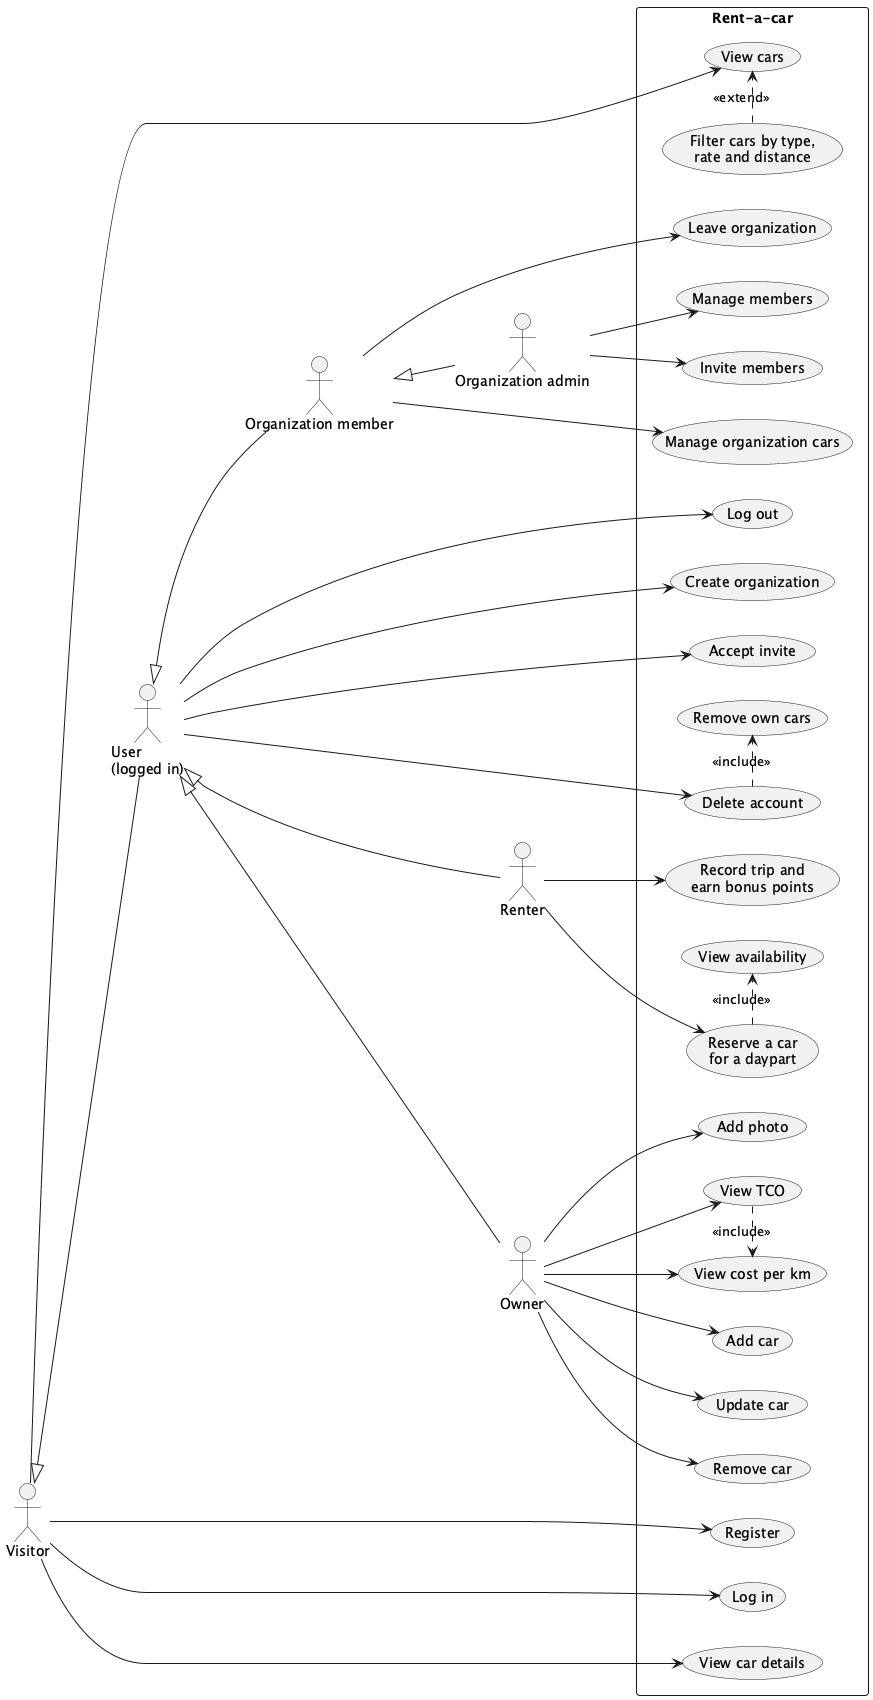
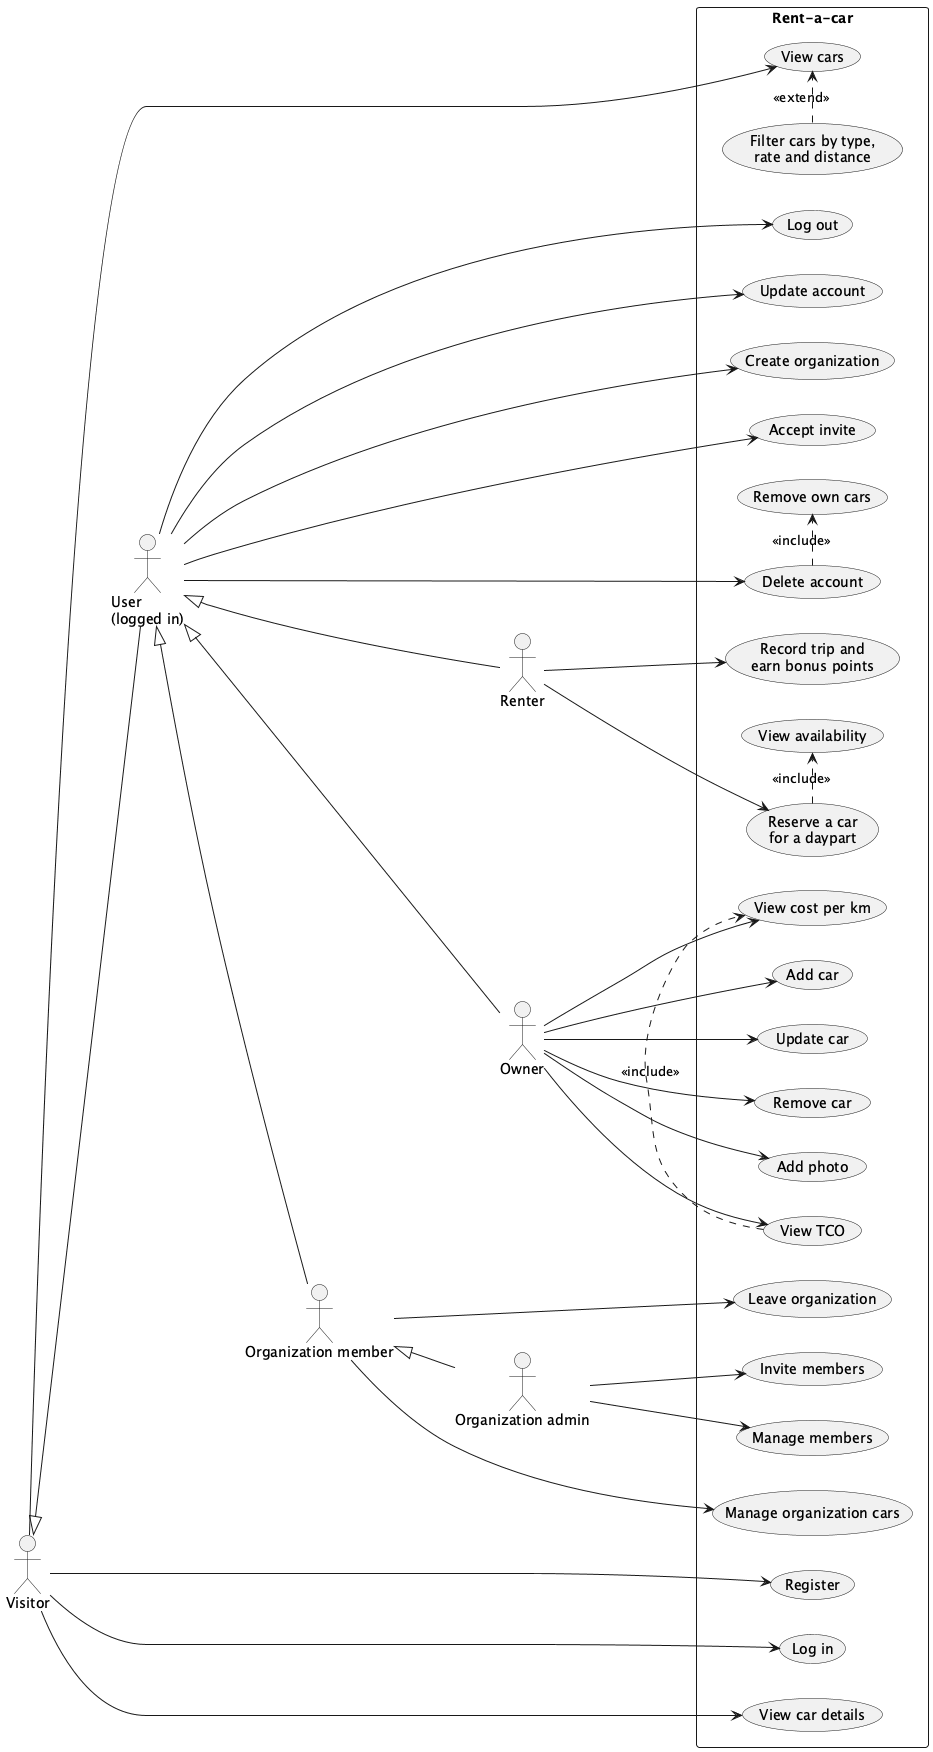
feat: add PUT /accounts/{id} to update your own account (#61)
* Add PUT /accounts/{id} to update your own name and email

* Add the update account sequence diagram and update the class and use case diagrams

* Test that updating an account trims the name and email

diff --git a/test/accounts/AccountRoutesTest.kt b/test/accounts/AccountRoutesTest.kt
@@ -6,6 +6,7 @@ import io.ktor.client.HttpClient
 import io.ktor.client.request.bearerAuth
 import io.ktor.client.request.delete
 import io.ktor.client.request.post
+import io.ktor.client.request.put
 import io.ktor.client.request.setBody
 import io.ktor.client.statement.HttpResponse
 import io.ktor.client.statement.bodyAsText
@@ -49,6 +50,16 @@ class AccountRoutesTest {
 
     private suspend fun HttpClient.logout(token: String? = null) =
         post("/logout") { token?.let { bearerAuth(it) } }
+
+    private suspend fun HttpClient.updateAccount(id: String, body: String, token: String? = null) =
+        put("/accounts/$id") {
+            token?.let { bearerAuth(it) }
+            contentType(ContentType.Application.Json)
+            setBody(body)
+        }
+
+    private fun profile(name: String = "Janneke", email: String = "janneke@example.com") =
+        """{"name":"$name","email":"$email"}"""
 
     private suspend fun HttpClient.deleteAccount(id: Int, token: String? = null) =
         delete("/accounts/$id") { token?.let { bearerAuth(it) } }
@@ -216,5 +227,107 @@ class AccountRoutesTest {
 
         assertEquals(HttpStatusCode.Unauthorized, client.logout().status)
         assertEquals(HttpStatusCode.Unauthorized, client.logout("not-a-token").status)
+    }
+
+    @Test
+    fun UpdateOwnAccountReturnsUpdatedAccountWithoutPassword() = testApplication {
+        useTestDatabase()
+        application { module() }
+        val (id, token) = client.signUp()
+
+        val response = client.updateAccount("$id", profile(), token)
+
+        assertEquals(HttpStatusCode.OK, response.status)
+        val body = response.json()
+        assertEquals("Janneke", body["name"]!!.jsonPrimitive.content)
+        assertEquals("janneke@example.com", body["email"]!!.jsonPrimitive.content)
+        assertFalse(response.bodyAsText().contains("password"))
+    }
+
+    @Test
+    fun UpdateTrimsNameAndEmail() = testApplication {
+        useTestDatabase()
+        application { module() }
+        val (id, token) = client.signUp()
+
+        val body = client.updateAccount("$id", profile(name = "  Janneke ", email = " janneke@example.com  "), token).json()
+
+        assertEquals("Janneke", body["name"]!!.jsonPrimitive.content)
+        assertEquals("janneke@example.com", body["email"]!!.jsonPrimitive.content)
+        assertEquals(HttpStatusCode.OK, client.login("janneke@example.com").status)
+    }
+
+    @Test
+    fun UpdatedEmailCanBeUsedToLogIn() = testApplication {
+        useTestDatabase()
+        application { module() }
+        val (id, token) = client.signUp()
+        client.updateAccount("$id", profile(), token)
+
+        assertEquals(HttpStatusCode.OK, client.login("janneke@example.com").status)
+        assertEquals(HttpStatusCode.Unauthorized, client.login("jan@example.com").status)
+    }
+
+    @Test
+    fun UpdateKeepingOwnEmailReturnsOk() = testApplication {
+        useTestDatabase()
+        application { module() }
+        val (id, token) = client.signUp()
+
+        assertEquals(HttpStatusCode.OK, client.updateAccount("$id", profile(email = "jan@example.com"), token).status)
+        assertEquals(HttpStatusCode.OK, client.updateAccount("$id", profile(email = "JAN@example.com"), token).status)
+    }
+
+    @Test
+    fun UpdateWithInvalidFieldsReturnsBadRequest() = testApplication {
+        useTestDatabase()
+        application { module() }
+        val (id, token) = client.signUp()
+
+        listOf(profile(name = " "), profile(email = "not-an-email"), profile(email = "jan@"), "{}", "not json").forEach {
+            assertEquals(HttpStatusCode.BadRequest, client.updateAccount("$id", it, token).status, it)
+        }
+        assertEquals(HttpStatusCode.BadRequest, client.updateAccount("abc", profile(), token).status)
+    }
+
+    @Test
+    fun UpdateWithoutValidTokenReturnsUnauthorized() = testApplication {
+        useTestDatabase()
+        application { module() }
+        val (id, _) = client.signUp()
+
+        assertEquals(HttpStatusCode.Unauthorized, client.updateAccount("$id", profile()).status)
+        assertEquals(HttpStatusCode.Unauthorized, client.updateAccount("$id", profile(), "not-a-token").status)
+    }
+
+    @Test
+    fun UpdateSomeoneElsesAccountReturnsForbidden() = testApplication {
+        useTestDatabase()
+        application { module() }
+        val (otherId, _) = client.signUp("piet@example.com")
+        val (_, token) = client.signUp()
+
+        assertEquals(HttpStatusCode.Forbidden, client.updateAccount("$otherId", profile(), token).status)
+        assertEquals(HttpStatusCode.OK, client.login("piet@example.com").status)
+    }
+
+    @Test
+    fun UpdateUnknownAccountReturnsNotFound() = testApplication {
+        useTestDatabase()
+        application { module() }
+        val (_, token) = client.signUp()
+
+        assertEquals(HttpStatusCode.NotFound, client.updateAccount("999", profile(), token).status)
+    }
+
+    @Test
+    fun UpdateToEmailOfAnotherAccountReturnsConflict() = testApplication {
+        useTestDatabase()
+        application { module() }
+        client.signUp("piet@example.com")
+        val (id, token) = client.signUp()
+
+        assertEquals(HttpStatusCode.Conflict, client.updateAccount("$id", profile(email = "PIET@example.com"), token).status)
+        assertEquals(HttpStatusCode.OK, client.login("jan@example.com").status)
     }
 }

diff --git a/src/accounts/AccountRoutes.kt b/src/accounts/AccountRoutes.kt
@@ -12,13 +12,15 @@ import io.ktor.server.util.*
 private const val MIN_PASSWORD_LENGTH = 8
 private val EMAIL_PATTERN = Regex("[^@\\s]+@[^@\\s]+\\.[^@\\s]+") // something@domain.tld, nothing stricter
 
+private fun isValid(name: String, email: String) = name.isNotEmpty() && EMAIL_PATTERN.matches(email)
+
 fun Application.configureAccounts(users: UserRepository) {
     routing {
         post("/accounts") {
             val request = call.receive<RegisterRequest>() // Ktor answers unreadable bodies with 400 or 415
             val name = request.name.trim()
             val email = request.email.trim()
-            if (name.isEmpty() || !EMAIL_PATTERN.matches(email) || request.password.length < MIN_PASSWORD_LENGTH) {
+            if (!isValid(name, email) || request.password.length < MIN_PASSWORD_LENGTH) {
                 call.respond(HttpStatusCode.BadRequest)
                 return@post
             }
@@ -45,6 +47,25 @@ fun Application.configureAccounts(users: UserRepository) {
                 // Only the token of this request: the user's other logins keep working.
                 (call.request.parseAuthorizationHeader() as? HttpAuthHeader.Single)?.let { TokenRepository.revoke(it.blob) }
                 call.respond(HttpStatusCode.NoContent)
+            }
+
+            put("/accounts/{id}") {
+                val id = call.parameters.getOrFail<Int>("id")
+                when {
+                    users.find(id) == null -> call.respond(HttpStatusCode.NotFound)
+                    id != call.principal<User>()?.id -> call.respond(HttpStatusCode.Forbidden)
+                    else -> {
+                        val request = call.receive<UpdateAccountRequest>()
+                        val name = request.name.trim()
+                        val email = request.email.trim()
+                        if (!isValid(name, email)) {
+                            call.respond(HttpStatusCode.BadRequest)
+                            return@put
+                        }
+                        val user = users.update(id, name, email)
+                        if (user == null) call.respond(HttpStatusCode.Conflict) else call.respond(user.toResponse())
+                    }
+                }
             }
 
             delete("/accounts/{id}") {

diff --git a/src/accounts/UserRepository.kt b/src/accounts/UserRepository.kt
@@ -3,10 +3,13 @@ package com.example.accounts
 import com.example.database.runScript
 import java.security.MessageDigest
 import java.security.SecureRandom
+import java.sql.SQLException
 import java.util.Base64
 import javax.crypto.SecretKeyFactory
 import javax.crypto.spec.PBEKeySpec
 import javax.sql.DataSource
+
+private const val UNIQUE_VIOLATION = "23505"
 
 class UserRepository(private val dataSource: DataSource) {
     private val dummyHash by lazy { hash("dummy") }
@@ -30,6 +33,14 @@ class UserRepository(private val dataSource: DataSource) {
     }
 
     fun find(id: Int): User? = queryUser("SELECT * FROM users WHERE id = ?", id)
+
+    // null when the email belongs to another account (the unique index decides, so two requests at once can't both win),
+    // or when the user was deleted meanwhile: shortcut, the route reports both as 409.
+    fun update(id: Int, name: String, email: String): User? = try {
+        queryUser("UPDATE users SET name = ?, email = ? WHERE id = ? RETURNING *", name, email, id)
+    } catch (e: SQLException) {
+        if (e.sqlState == UNIQUE_VIOLATION) null else throw e
+    }
 
     fun delete(id: Int): Boolean = dataSource.connection.use { connection ->
         connection.prepareStatement("DELETE FROM users WHERE id = ?").use { it.setInt(1, id); it.executeUpdate() > 0 }

diff --git a/test/accounts/UserRepositoryTest.kt b/test/accounts/UserRepositoryTest.kt
@@ -24,6 +24,26 @@ class UserRepositoryTest {
     }
 
     @Test
+    fun UpdateChangesNameAndEmailButKeepsPassword() {
+        val user = assertNotNull(users.register("Jan", "jan@example.com", "supersecret"))
+
+        val updated = assertNotNull(users.update(user.id, "Janneke", "janneke@example.com"))
+
+        assertEquals("Janneke", updated.name)
+        assertEquals("janneke@example.com", updated.email)
+        assertNotNull(users.authenticate("janneke@example.com", "supersecret"))
+    }
+
+    @Test
+    fun UpdateToEmailOfAnotherUserReturnsNull() {
+        users.register("Piet", "piet@example.com", "supersecret")
+        val user = assertNotNull(users.register("Jan", "jan@example.com", "supersecret"))
+
+        assertNull(users.update(user.id, "Jan", "PIET@example.com"))
+        assertEquals("jan@example.com", users.find(user.id)?.email)
+    }
+
+    @Test
     fun RegisterStoresHashedPassword() {
         val user = assertNotNull(users.register("Jan", "jan@example.com", "supersecret"))
 

diff --git a/src/accounts/User.kt b/src/accounts/User.kt
@@ -17,6 +17,9 @@ data class RegisterRequest(val name: String, val email: String, val password: St
 data class UserResponse(val id: Int, val name: String, val email: String)
 
 @Serializable
+data class UpdateAccountRequest(val name: String, val email: String)
+
+@Serializable
 data class LoginRequest(val email: String, val password: String)
 
 fun User.toResponse() = UserResponse(id, name, email)
